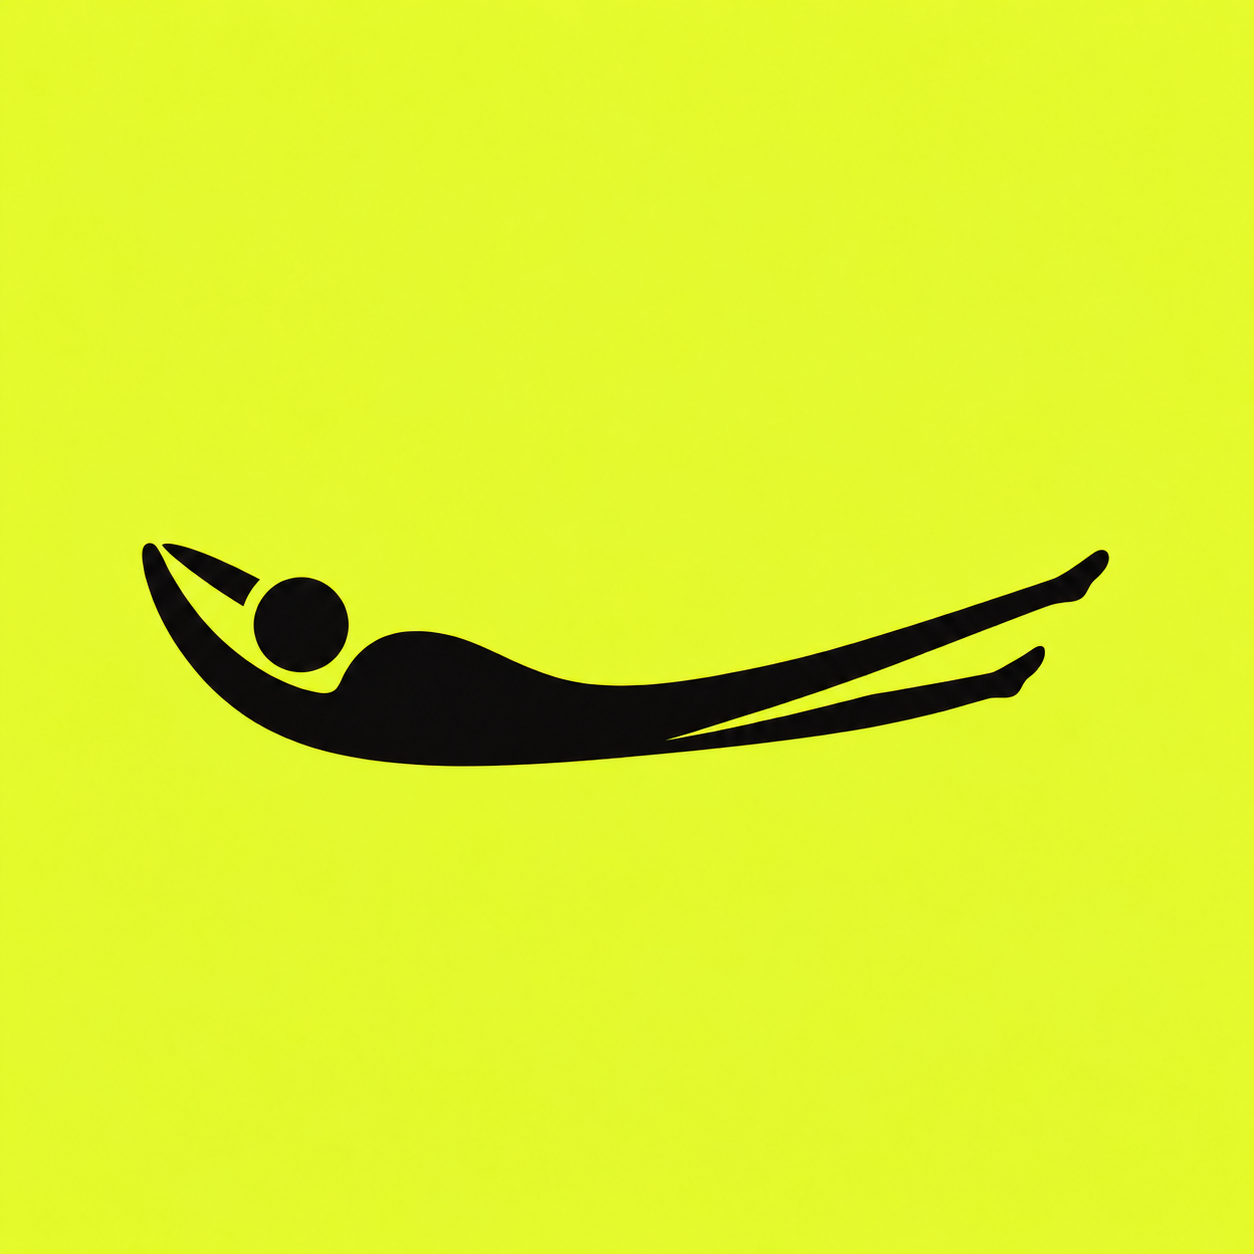
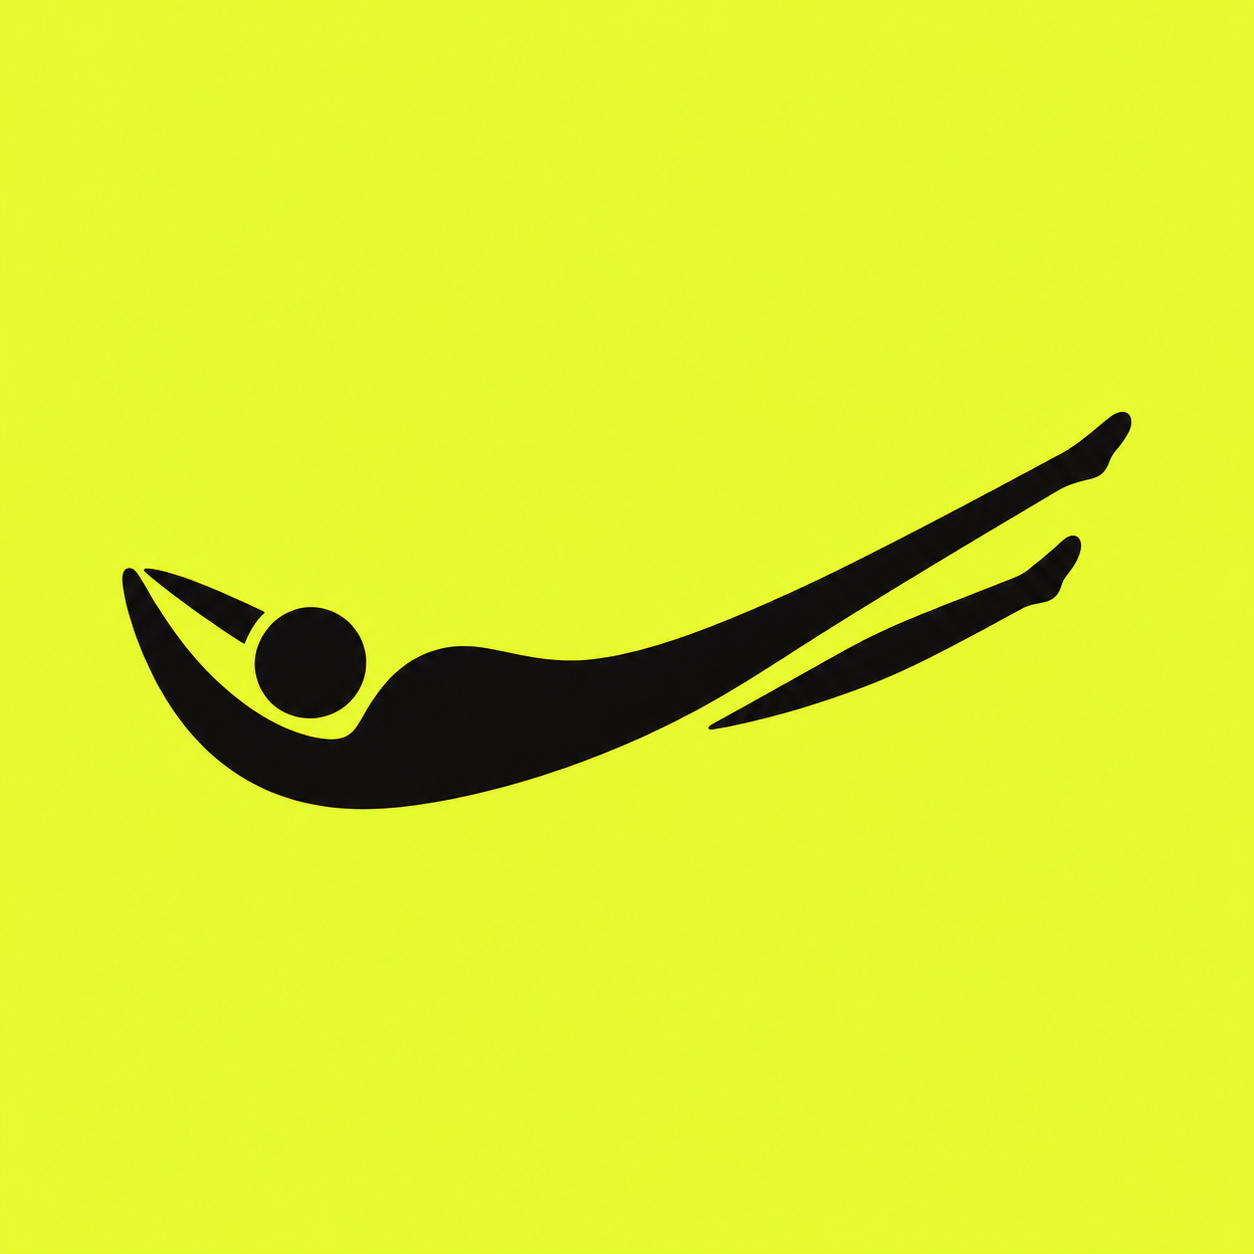
Tilt stretching mark and separate lower leg for a clean curve

Changed region(s): [[0.0933, 0.311, 0.9019, 0.6531]]

diff --git a/demos/nooprun/app.js b/demos/nooprun/app.js
@@ -53,7 +53,7 @@
     const chartIcon='<path d="M5 20V12m7 8V4m7 16V8"/>';
     const gearIcon='<path d="m10 3 .5-1h3l.5 3 2 1 2.5-1 1.5 2.6-2 2V13l2 2-1.5 2.6-2.5-1-2 1-.5 3h-3l-.5-3-2-1-2.5 1L3 15l2-2V10L3 8l1.5-2.6L7 6l2-1Z"/><circle cx="11.5" cy="11.5" r="3"/>';
     return `<section class="app-screen home lobby-home club-home">
-      <header class="club-header"><h2>빈둥</h2><img class="club-app-icon" src="assets/brand/nooprun-recline.png?v=stretch-1" width="42" height="42" alt="눕런: 누워서 기지개 켜는 사람"></header>
+      <header class="club-header"><h2>빈둥</h2><img class="club-app-icon" src="assets/brand/nooprun-recline.png?v=stretch-2" width="42" height="42" alt="눕런: 누워서 기지개 켜는 사람"></header>
       <nav class="club-mode-tabs" aria-label="빈둥 메뉴"><button data-action="home" aria-current="page">바로 시작</button><button data-action="history">나의 기록</button></nav>
       <div class="club-stage">
         <svg class="club-map" viewBox="0 0 375 530" preserveAspectRatio="xMidYMid slice" aria-hidden="true"><rect width="375" height="530" fill="#f1f2ee"/><g fill="#e6e8e3"><path d="M0 42h91v77H0Zm108-40h94v117h-94Zm111 0h80v119h-80Zm98 4h58v116h-58ZM0 138h93v92H0Zm110 0h92v92h-92Zm108 0h89v92h-89Zm108 0h49v92h-49ZM0 250h91v100H0Zm110 0h92v100h-92Zm109 0h86v100h-86Zm107 0h49v100h-49ZM0 370h91v160H0Zm109 0h94v160h-94Zm111 0h90v160h-90Zm109 0h46v160h-46Z"/></g><path d="m-30 410 198-75 250-44" stroke="#fff" stroke-width="21" fill="none"/><path d="m-25 410 198-75 250-44" stroke="#e1e4dd" stroke-width="2" fill="none"/><path d="M-20 152q67 10 101 4t40 36l-22 27H-20Z" fill="#e0e9d9"/><path d="M293 366h82v115h-82z" fill="#e0e9d9"/><g stroke="#daddd6" stroke-width="1" fill="none"><path d="M18 57h55v43H18Zm110-30h54v73h-54Zm109 3h43v70h-43ZM130 156h51v54h-51Zm107 0h51v54h-51ZM16 271h57v55H16Zm116 0h48v55h-48Zm104 0h51v40h-51ZM19 391h52v77H19Zm112-9h50v91h-50Zm104 8h51v99h-51"/></g></svg>

diff --git a/demos/nooprun/index.html b/demos/nooprun/index.html
@@ -5,11 +5,11 @@
   <meta name="viewport" content="width=device-width,initial-scale=1">
   <meta name="color-scheme" content="light">
   <title>눕런 — 오늘도, 가만히 완주.</title>
-  <link rel="icon" type="image/png" href="assets/brand/nooprun-recline.png?v=stretch-1">
-  <link rel="apple-touch-icon" href="assets/brand/nooprun-recline.png?v=stretch-1">
+  <link rel="icon" type="image/png" href="assets/brand/nooprun-recline.png?v=stretch-2">
+  <link rel="apple-touch-icon" href="assets/brand/nooprun-recline.png?v=stretch-2">
   <link rel="stylesheet" href="style.css">
-  <link rel="stylesheet" href="lobby.css?v=stretch-1">
-  <link rel="stylesheet" href="session.css?v=stretch-1">
+  <link rel="stylesheet" href="lobby.css?v=stretch-2">
+  <link rel="stylesheet" href="session.css?v=stretch-2">
   <link rel="stylesheet" href="archive-return.css">
 </head>
 <body>
@@ -52,9 +52,9 @@
   </main>
   <footer class="footer"><span>NOOPRUN / 기획 및 화면 시안</span><a href="../../#nooprun">상세 기획 보기 ↗</a><span>2026.10.30</span></footer>
   <div id="toast" class="toast" role="status" aria-live="polite"></div>
-  <script src="audio.js?v=stretch-1"></script>
-  <script src="art.js?v=stretch-1"></script>
-  <script src="voice.js?v=stretch-1"></script>
-  <script src="app.js?v=stretch-1"></script>
+  <script src="audio.js?v=stretch-2"></script>
+  <script src="art.js?v=stretch-2"></script>
+  <script src="voice.js?v=stretch-2"></script>
+  <script src="app.js?v=stretch-2"></script>
 </body>
 </html>
